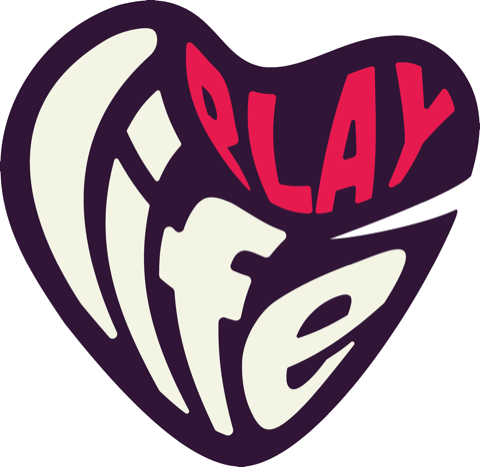
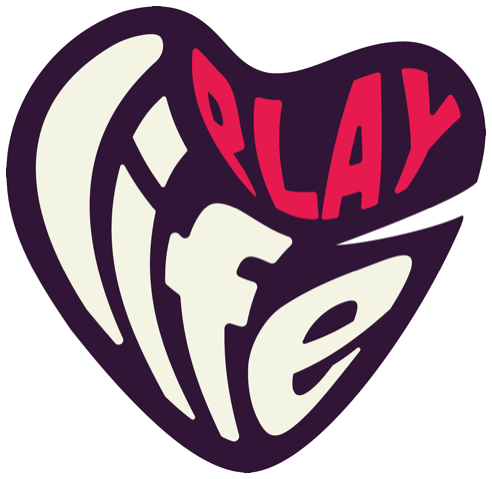
feat: page « Qui est Playlife ? » (menu L'association) ; cœur détouré sans pixels clairs
- Histoire (2015 / 2018), mission, trois piliers, pays de mission, parrain et ambassadeurs,
  engagements, liens vers www.playlife.today et la page de dons
- Détourage du cœur : traitement des bords de l'image et marge transparente
- En-tête : bouton « Créer un compte » masqué entre 1024 et 1279 px pour éviter le débordement

diff --git a/src/app/pages/Association.tsx b/src/app/pages/Association.tsx
@@ -1,0 +1,160 @@
+import type { ReactNode } from 'react';
+import { ArrowRight, ArrowUpRight, Eye, GraduationCap, HandHeart, Handshake, Heart, Package, Quote, ShieldCheck, Trophy } from 'lucide-react';
+import { countryFlag } from '@/lib/structures';
+import photo from '@/assets/accueil-1.jpg';
+import heart from '@/assets/coeur-playlife.png';
+import { ButtonLink } from '../components/ui/Button';
+import { PageHeader } from '../components/ui/PageHeader';
+
+const SITE_URL = 'https://www.playlife.today';
+
+const PILLARS = [
+    { icon: Package, title: 'Envoyer du matériel', text: 'Ballons, plots, chasubles : du matériel sportif pour les écoles, orphelinats et établissements non équipés.' },
+    { icon: Trophy, title: 'Financer des infrastructures', text: 'Soutenir la création de lieux où les enfants peuvent pratiquer une activité sportive.' },
+    { icon: GraduationCap, title: 'Partager le savoir', text: 'Transmettre les connaissances en activités physiques aux encadrants sur place.' },
+];
+
+const COUNTRIES: Array<[string, string]> = [['PH', 'Philippines'], ['UY', 'Uruguay'], ['MA', 'Maroc'], ['BJ', 'Bénin'], ['DO', 'République dominicaine'], ['FR', 'France']];
+
+const PEOPLE = [
+    { name: 'Alphonse Areola', role: 'Parrain', detail: 'Gardien de but, champion du monde 2018' },
+    { name: 'Nando De Colo', role: 'Ambassadeur', detail: 'Basketteur international français' },
+    { name: 'Edinson Cavani', role: 'Ambassadeur', detail: 'Footballeur international uruguayen' },
+];
+
+const COMMITMENTS = [
+    { icon: HandHeart, title: '100 % des dons pour les envois', text: 'L\'objectif de l\'association : que chaque euro donné serve directement à équiper des enfants.' },
+    { icon: Eye, title: 'Transparence', text: 'Chaque mission est référencée avec sa cagnotte, et les reçus fiscaux sont émis automatiquement.' },
+    { icon: Handshake, title: 'Des partenaires locaux', text: 'Les packs sont remis à des structures qui connaissent les enfants et leurs besoins, en accord avec elles.' },
+    { icon: ShieldCheck, title: 'Le respect des enfants', text: 'Photos avec accord, dignité des personnes, coordonnées des structures réservées aux membres.' },
+];
+
+function Eyebrow({ children }: { children: ReactNode }) {
+    return <p className="text-xs font-semibold uppercase tracking-[0.18em] text-brand-500">{children}</p>;
+}
+
+export default function Association() {
+    return (
+        <div className="pt-8 lg:pt-14">
+            <div className="container-page">
+                <PageHeader
+                    eyebrow="L'association"
+                    title="Qui est Playlife ?"
+                    description="Une association humanitaire née en 2015 d'une conviction simple : le sport change la vie des enfants."
+                    actions={<ButtonLink to={SITE_URL} target="_blank" rel="noopener noreferrer" variant="secondary" size="lg" iconRight={ArrowUpRight}>www.playlife.today</ButtonLink>}
+                />
+
+                {/* Histoire */}
+                <section className="grid items-center gap-10 lg:grid-cols-2 lg:gap-16" aria-labelledby="story-title">
+                    <div className="relative">
+                        <img src={photo} alt="Enfant jouant au football avec un ballon Playlife" className="aspect-[4/3] w-full rounded-[2rem] object-cover shadow-lift" />
+                        <img src={heart} alt="" aria-hidden="true" className="absolute -bottom-6 -right-4 w-24 rotate-6 drop-shadow-xl md:w-28" />
+                    </div>
+                    <div>
+                        <Eyebrow>Notre histoire</Eyebrow>
+                        <h2 id="story-title" className="mt-3 text-3xl font-bold md:text-4xl">Du sport pour ceux qui n'en ont pas</h2>
+                        <div className="mt-5 space-y-4 text-lg text-gray-600">
+                            <p>Playlife est née en <strong className="text-ink-900">2015</strong>, à l'initiative de professionnels convaincus des bienfaits du sport dans l'éducation. Après plusieurs années à consolider le projet avec des partenaires et des ambassadeurs, l'association est officiellement créée en <strong className="text-ink-900">2018</strong>.</p>
+                            <p>Sa mission : distribuer et envoyer du matériel sportif dans les écoles, orphelinats et établissements non équipés, souvent dans des pays défavorisés.</p>
+                        </div>
+                        <figure className="mt-8 rounded-2xl bg-surface-100 p-6">
+                            <Quote className="size-6 text-brand-500" aria-hidden="true" />
+                            <blockquote className="mt-3 text-xl font-semibold leading-snug text-ink-900">Le sport est une source directe de valeurs fondamentales : le respect, l'apprentissage et le dépassement de soi.</blockquote>
+                        </figure>
+                    </div>
+                </section>
+            </div>
+
+            {/* Piliers */}
+            <section className="mt-20 bg-white py-20 lg:mt-28 lg:py-24" aria-labelledby="pillars-title">
+                <div className="container-page">
+                    <Eyebrow>Notre action</Eyebrow>
+                    <h2 id="pillars-title" className="mt-3 text-3xl font-bold md:text-4xl">Trois façons d'agir</h2>
+                    <div className="mt-10 grid gap-6 md:grid-cols-3">
+                        {PILLARS.map(({ icon: Icon, title, text }, index) => (
+                            <article key={title} className="rounded-3xl bg-surface-50 p-7 ring-1 ring-ink-900/[0.06]">
+                                <div className="flex items-center justify-between">
+                                    <span className="flex size-12 items-center justify-center rounded-2xl bg-brand-50 text-brand-500"><Icon className="size-6" aria-hidden="true" /></span>
+                                    <span className="text-5xl font-bold text-ink-900/[0.07]" aria-hidden="true">0{index + 1}</span>
+                                </div>
+                                <h3 className="mt-6 text-xl font-semibold">{title}</h3>
+                                <p className="mt-2 text-gray-600">{text}</p>
+                            </article>
+                        ))}
+                    </div>
+                </div>
+            </section>
+
+            <div className="container-page">
+                {/* Pays */}
+                <section className="py-20 lg:py-24" aria-labelledby="countries-title">
+                    <div className="grid gap-10 lg:grid-cols-[1fr_1.4fr] lg:items-center">
+                        <div>
+                            <Eyebrow>Sur le terrain</Eyebrow>
+                            <h2 id="countries-title" className="mt-3 text-3xl font-bold md:text-4xl">Des missions sur quatre continents</h2>
+                            <p className="mt-4 text-lg text-gray-600">Depuis 2018, des packs Playlife ont été remis à des enfants en Asie, en Amérique, en Afrique et en Europe. Avec Playlife Connect, chacun peut désormais ouvrir une nouvelle destination.</p>
+                        </div>
+                        <ul className="grid grid-cols-2 gap-3 sm:grid-cols-3">
+                            {COUNTRIES.map(([code, name]) => (
+                                <li key={code} className="flex items-center gap-3 rounded-2xl bg-white p-4 shadow-soft ring-1 ring-ink-900/[0.06]">
+                                    <span className="text-3xl" aria-hidden="true">{countryFlag(code)}</span>
+                                    <span className="font-medium text-ink-900">{name}</span>
+                                </li>
+                            ))}
+                        </ul>
+                    </div>
+                </section>
+
+                {/* Parrain & ambassadeurs */}
+                <section className="rounded-[2rem] bg-ink-900 p-8 text-white md:p-12" aria-labelledby="people-title">
+                    <p className="text-xs font-semibold uppercase tracking-[0.18em] text-brand-300">Ils nous soutiennent</p>
+                    <h2 id="people-title" className="mt-3 text-3xl font-bold text-white md:text-4xl">Parrain et ambassadeurs</h2>
+                    <ul className="mt-10 grid gap-4 md:grid-cols-3">
+                        {PEOPLE.map(person => (
+                            <li key={person.name} className="rounded-2xl bg-white/[0.06] p-6 ring-1 ring-white/10">
+                                <span className="inline-flex rounded-full bg-brand-500 px-2.5 py-0.5 text-xs font-semibold text-white">{person.role}</span>
+                                <p className="mt-4 text-xl font-semibold text-white">{person.name}</p>
+                                <p className="mt-1 text-sm text-ink-200">{person.detail}</p>
+                            </li>
+                        ))}
+                    </ul>
+                </section>
+
+                {/* Engagements */}
+                <section className="py-20 lg:py-24" aria-labelledby="commitments-title">
+                    <Eyebrow>Nos engagements</Eyebrow>
+                    <h2 id="commitments-title" className="mt-3 text-3xl font-bold md:text-4xl">Une solidarité exigeante</h2>
+                    <div className="mt-10 grid gap-6 sm:grid-cols-2 lg:grid-cols-4">
+                        {COMMITMENTS.map(({ icon: Icon, title, text }) => (
+                            <article key={title} className="rounded-2xl bg-white p-6 shadow-soft ring-1 ring-ink-900/[0.06]">
+                                <Icon className="size-6 text-brand-500" aria-hidden="true" />
+                                <h3 className="mt-4 font-semibold">{title}</h3>
+                                <p className="mt-2 text-sm text-gray-600">{text}</p>
+                            </article>
+                        ))}
+                    </div>
+                </section>
+
+                {/* Playlife Connect + liens */}
+                <section className="grid gap-6 lg:grid-cols-2" aria-label="Aller plus loin">
+                    <div className="flex flex-col rounded-3xl bg-surface-100 p-8 md:p-10">
+                        <Heart className="size-7 fill-brand-500 text-brand-500" aria-hidden="true" />
+                        <h2 className="mt-5 text-2xl font-bold">Playlife Connect, la plateforme</h2>
+                        <p className="mt-3 flex-1 text-gray-600">Pour aller plus loin, Playlife a créé Playlife Connect : voyageurs, enseignants et animateurs y organisent eux-mêmes leur mission solidaire, accompagnés par l'association à chaque étape.</p>
+                        <div className="mt-6"><ButtonLink to="/comment-ca-marche" iconRight={ArrowRight}>Comment ça marche</ButtonLink></div>
+                    </div>
+                    <div className="flex flex-col rounded-3xl bg-white p-8 shadow-soft ring-1 ring-ink-900/[0.06] md:p-10">
+                        <img src={heart} alt="" aria-hidden="true" className="w-14" />
+                        <h2 className="mt-5 text-2xl font-bold">Découvrir l'association</h2>
+                        <p className="mt-3 flex-1 text-gray-600">Actualités, histoires de missions, dons à l'association et contact : retrouvez tout l'univers Playlife sur son site officiel.</p>
+                        <div className="mt-6 flex flex-wrap gap-3">
+                            <ButtonLink to={SITE_URL} target="_blank" rel="noopener noreferrer" variant="dark" iconRight={ArrowUpRight}>www.playlife.today</ButtonLink>
+                            <ButtonLink to={`${SITE_URL}/dons/`} target="_blank" rel="noopener noreferrer" variant="secondary" iconRight={ArrowUpRight}>Faire un don</ButtonLink>
+                        </div>
+                        <p className="mt-6 text-xs text-gray-500">Association loi 1901 · SIRET 991 252 909 00015 · 151 rue de la Fouillade, 34820 Teyran</p>
+                    </div>
+                </section>
+            </div>
+        </div>
+    );
+}

diff --git a/src/app/App.tsx b/src/app/App.tsx
@@ -15,6 +15,7 @@ const Structures = lazy(() => import('./pages/Structures'));
 const CommentCaMarche = lazy(() => import('./pages/CommentCaMarche'));
 const Ressources = lazy(() => import('./pages/Ressources'));
 const Contact = lazy(() => import('./pages/Contact'));
+const Association = lazy(() => import('./pages/Association'));
 const Login = lazy(() => import('./pages/Login'));
 const Register = lazy(() => import('./pages/Register'));
 const ForgotPassword = lazy(() => import('./pages/ForgotPassword'));
@@ -48,6 +49,7 @@ function AppContent() {
             <Route path="/impact" element={<Navigate to="/comment-ca-marche" replace />} />
             <Route path="/ressources" element={<Ressources />} />
             <Route path="/contact" element={<Contact />} />
+            <Route path="/qui-sommes-nous" element={<Association />} />
             <Route path="/login" element={<Login />} />
             <Route path="/register" element={<Register />} />
             <Route path="/mot-de-passe-oublie" element={<ForgotPassword />} />

diff --git a/src/app/components/Header.tsx b/src/app/components/Header.tsx
@@ -12,6 +12,7 @@ export const NAV_ITEMS = [
   { label: 'Structures', path: '/structures' },
   { label: 'Comment ça marche', path: '/comment-ca-marche' },
   { label: 'Ressources', path: '/ressources' },
+  { label: "L'association", path: '/qui-sommes-nous' },
   { label: 'Contact', path: '/contact' },
 ];
 
@@ -74,7 +75,7 @@ export function Header() {
           ) : (
             <div className="hidden items-center gap-2 sm:flex">
               <ButtonLink to={loginTarget} variant="ghost" size="sm">Se connecter</ButtonLink>
-              <ButtonLink to="/register" size="sm">Créer un compte</ButtonLink>
+              <ButtonLink to="/register" size="sm" className="lg:hidden xl:inline-flex">Créer un compte</ButtonLink>
             </div>
           )}
           <button
